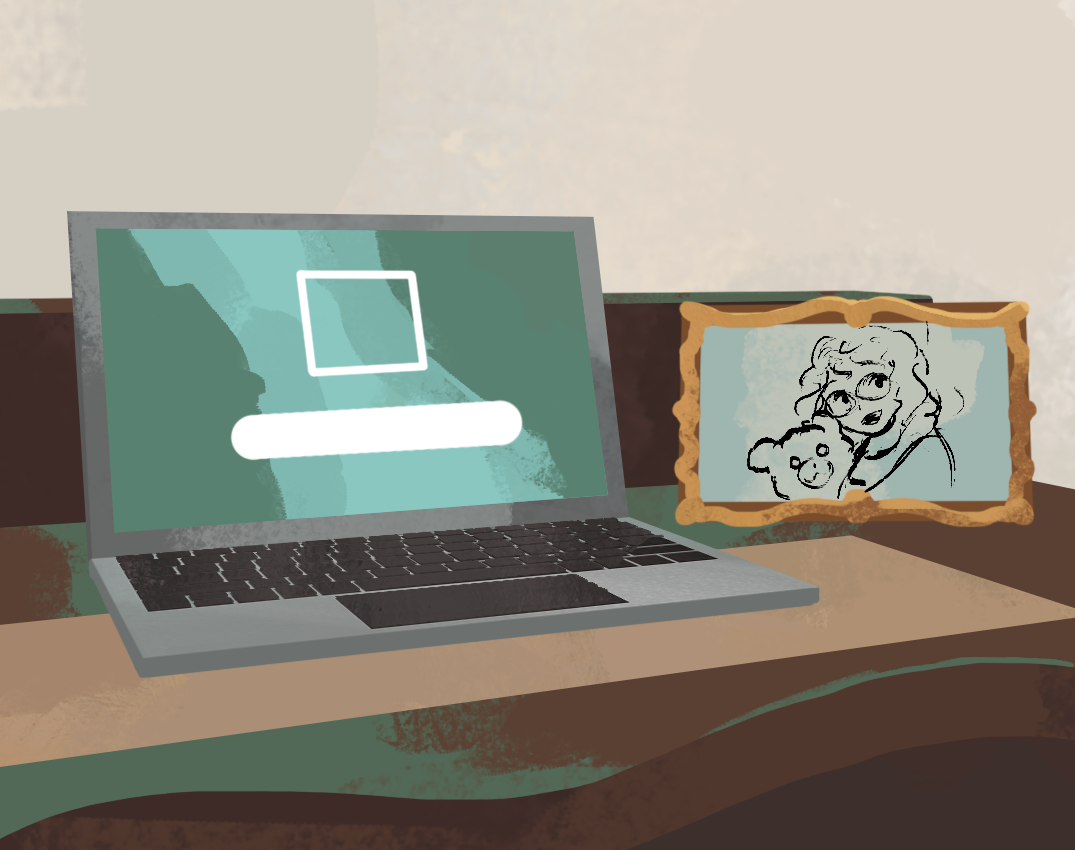
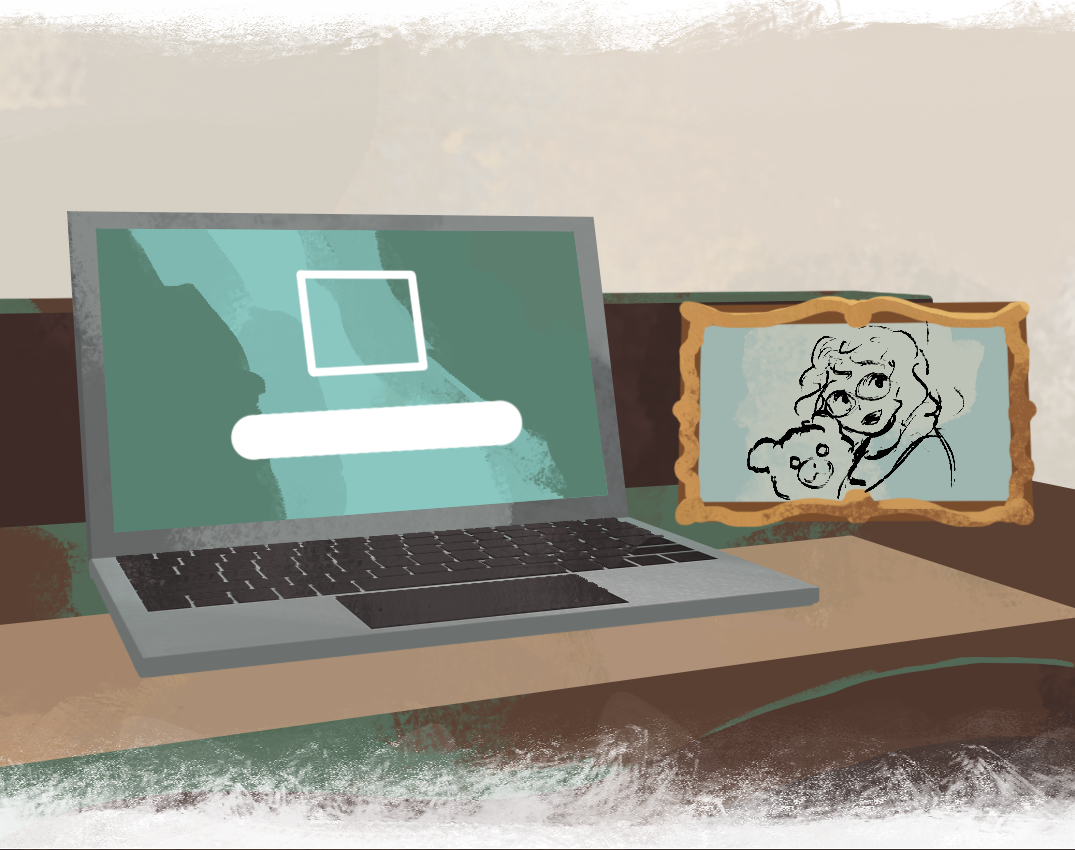
Guard Behaviors and Map Updates

Changed region(s): [[0.0, 0.8565, 1.0, 1.0], [0.0, 0.0, 1.0, 0.0612]]

diff --git a/js/p2.js b/js/p2.js
@@ -10,7 +10,7 @@
   var el = U.el, $ = U.$;
 
   var tab = 'plan';
-  var manualSeen = false;   /* has he opened MANUAL since the hatch locked? */
+  var hintedModule = null, puzzleSeen = false; /* reset the hint for each puzzle */
   var staffSeen = false;    /* has he opened STAFF during the posted guard's walk-over and talk? */
   var openSerial = -1, openBadge = null;
   var unlockSeen = null;   /* the unlock notice he has already waved off */
@@ -63,7 +63,7 @@
      arrives the first time it is needed. Note that nothing here ever SWITCHES
      the tab for him — finding the right page is still his job. */
   function availableTabs() {
-    var S = E.S, u = S.unlocked || {}, list = [['plan', 'PLAN']];
+    var S = E.S, u = S.unlocked || {}, list = [['plan', 'MAP']];
     if (C.PORTE && u.porte) list.push(['porte', 'DOOR']);
     if (C.COFFRE && u.manuel) list.push(['manuel', 'MANUAL']);
     if (u.personnel || u.visages) list.push(['personnel', 'STAFF']);
@@ -83,11 +83,15 @@
   function tabBar() {
     if (availableTabs().length === 1) return null;
     var bar = el('div', { class: 'tabs' });
-    /* THE HATCH POINTS AT THE MANUAL. When the lights go and the keypad comes
-       up, the procedures he needs are under the safes on MANUAL — so that tab
-       pulses until he opens it. */
-    var S = E.S, hatch = S.phase === 'module' && S.moduleId === 'clavier';
-    if (!hatch) manualSeen = false;
+    /* Point at each puzzle's reference page until Benjamin opens it.
+       The escape keypad keeps its existing hint toward Manual's procedures. */
+    var S = E.S, moduleId = S.phase === 'module' ? S.moduleId : null;
+    if (moduleId !== hintedModule) { hintedModule = moduleId; puzzleSeen = false; }
+    var puzzleTab = {
+      deguisement: 'personnel', grille: 'plan', porte: 'porte',
+      bureau: 'personnel', coffre: 'manuel', clavier: 'manuel',
+      ecoute: 'manuel', faux: 'manuel'
+    }[moduleId];
     /* THE FIRST CONVERSATION POINTS AT STAFF. From the moment the posted
        guard is called over until he has been talked round, STAFF glows until
        Benjamin opens it. Once, for the run. */
@@ -95,13 +99,13 @@
       return g.stand && !g.stoodDown && (g.summoned || (S.tchatche && S.tchatche.guardId === g.id));
     });
     availableTabs().forEach(function (t) {
-      var flash = (hatch && !manualSeen && t[0] === 'manuel') ||
+      var flash = (puzzleTab && !puzzleSeen && t[0] === puzzleTab) ||
                   (talk && !staffSeen && t[0] === 'personnel');
       bar.appendChild(buttonArt(el('button', {
         class: (tab === t[0] ? 'is-on' : '') + (flash ? ' is-flash' : ''),
         onclick: function () {
           tab = t[0];
-          if (t[0] === 'manuel' && hatch) manualSeen = true;
+          if (t[0] === puzzleTab) puzzleSeen = true;
           if (t[0] === 'personnel' && talk) staffSeen = true;
           U.sfx.tap(); U.emit('render');
         }
@@ -112,6 +116,9 @@
 
   /* ---------------------------------------------------- the floor plan */
   var TT = 20;
+  function lasersRevealed() {
+    return E.S.guards.some(function (g) { return g.id === 'g1' && g.stoodDown; });
+  }
   function objectiveTargets() {
     var S = E.S;
     var step = (C.MAP_OBJECTIVES || []).filter(function (item) {
@@ -152,7 +159,6 @@
     function open(x, y) {
       var ch = E.charAt(x, y);
       if (ch === '#') return false;
-      if (ch === 'L' && E.beamLive(x, y)) return false;
       var d = E.doorAt(x, y);
       return !(d && d.locked);
     }
@@ -185,18 +191,16 @@
     }
     s += floors + cones + edges;
 
-    /* THE LASERS. Solid to anything that walks, and the only reason the middle
-       of this floor is not a shortcut — so they have to be the most obvious
-       thing on the plan after the guards. Benjamin sees all of them: he has the
-       building's procedures, and knowing where they are is not the puzzle. */
+    /* Lasers cross walkable floor. Keep the floor connections visible beneath
+       the red warning tile and vertical beam; disabled beams stay dashed. */
     for (var ly = 0; ly < C.MAP.length; ly++) {
       for (var lx = 0; lx < C.MAP[ly].length; lx++) {
-        if (C.MAP[ly][lx] !== 'L') continue;
+        if (C.MAP[ly][lx] !== 'L' || !lasersRevealed()) continue;
         var px2 = lx * TT, py2 = ly * TT, off = !E.beamLive(lx, ly);
         if (!off) s += '<rect x="' + px2 + '" y="' + py2 + '" width="' + TT + '" height="' + TT +
              '" fill="var(--red)" opacity=".22"/>';
-        s += '<line x1="' + px2 + '" y1="' + (py2 + TT / 2) + '" x2="' + (px2 + TT) +
-             '" y2="' + (py2 + TT / 2) + '" stroke="var(--red)" stroke-width="2.5"' +
+        s += '<line x1="' + (px2 + TT / 2) + '" y1="' + py2 + '" x2="' + (px2 + TT / 2) +
+             '" y2="' + (py2 + TT) + '" stroke="var(--red)" stroke-width="2.5"' +
              (off ? ' stroke-dasharray="3 4" opacity=".4"' : '') + '/>';
       }
     }
@@ -432,9 +436,9 @@
     }
     rows.push(keyRow('<rect width="20" height="20" fill="var(--map-floor)"/><rect width="20" height="20" fill="var(--red)" opacity=".55"/>',
                      '<b>Sightline</b> A guard or camera can see this square now.'));
-    if (hasChar('L')) {
-      rows.push(keyRow('<rect x="0" y="7" width="20" height="6" fill="var(--red)" opacity=".9"/>',
-                       '<b>Lasers</b> Sealed. Go around — unless you drop them from the van.'));
+    if (hasChar('L') && lasersRevealed()) {
+      rows.push(keyRow('<rect width="20" height="20" fill="var(--red)" opacity=".22"/><path d="M10 0 V20" stroke="var(--red)" stroke-width="2.5"/>',
+                       '<b>Lasers</b> Crossable, but crossing an active beam triggers a response. Drop them from the van.'));
     }
     if (night) {
       rows.push(keyRow('<rect width="20" height="20" fill="var(--night-2)"/>',
@@ -1020,7 +1024,7 @@
      anybody reads here, so losing its place is the most expensive. */
   L.p2 = { render: function () { U.keepScroll('#p2-screen', render); },
            reset: function () {
-    tab = 'plan'; manualSeen = false; staffSeen = false; openSerial = -1; openBadge = null;
+    tab = 'plan'; hintedModule = null; puzzleSeen = false; staffSeen = false; openSerial = -1; openBadge = null;
     tapped = []; queryResult = null; unlockSeen = null; unlockShown = null;
   } };
 })(window.DC);

diff --git a/js/content.js b/js/content.js
@@ -251,14 +251,14 @@
          encounter: it does not count as being spotted. Talk him round and he
          walks back to this square and stands down for the night. Was a
          two-square beat at (15,14)-(14,14). */
-      { id: 'g1', badge: '4412', from: { x: 14, y: 14 }, to: { x: 14, y: 14 }, at: 0, dir: 1, depth: 1,
+      { id: 'g1', badge: '4412', from: { x: 15, y: 14 }, to: { x: 15, y: 14 }, at: 0, dir: 1, depth: 1,
         stand: true, facing: 'W', hears: 'STORAGE' },
       /* was: loop:true, waypoints [C6, C12, U12, U6] — the full perimeter */
       { id: 'g2', badge: '2071', from: { x: 19, y: 6 }, to: { x: 19, y: 10 }, at: 0, dir: 1, depth: 2 },
-      /* was: y:5, the door row */
-      /* investigate: a broken beam sends him straight to it, not after
-         Assane, and he stands there looking round for six moves */
-      { id: 'g3', badge: '5195', from: { x: 2, y: 3 }, to: { x: 2, y: 5 }, at: 6, dir: -1, depth: 1, investigate: 6 }
+      /* Idle at C5. A broken beam sends him straight to it, not after
+         Assane; he looks round for six moves, then returns to his post. */
+      { id: 'g3', badge: '5195', from: { x: 2, y: 4 }, to: { x: 2, y: 4 }, at: 0, dir: -1,
+        facing: 'N', depth: 1, investigate: 6 }
     ],
     /* CAM 1 over the safe never blinks. CAM 2 over the desk is on one beat in
        three — timeable, if Benjamin is counting, loopable if he is not. */

diff --git a/styles/tv.css b/styles/tv.css
@@ -404,7 +404,7 @@
   background:url('../art/ui-new/tv-top-header.png') left top / 100% 100% no-repeat;
   border:0;border-radius:0;color:#080808;font-size:17px;font-weight:700;letter-spacing:0;
 }
-.tvbar__venue{position:absolute;left:27.5%;right:12%;top:0;height:30.45px;
+.tvbar__venue{position:absolute;left:27.5%;right:12%;top:-10%;height:30.45px;
   display:flex;align-items:center;color:#080808;font-size:12px;white-space:nowrap;overflow:hidden;}
 .tvbar__clock{
   position:absolute;right:0;top:0;width:11.875%;height:35.59px;
@@ -412,11 +412,11 @@
   background:url('../art/ui-new/tv-top-timer.png') center / 100% 100% no-repeat;
   color:#080808;font-family:var(--font);font-size:18px;font-weight:700;letter-spacing:0;
 }
-.tvbar__obj{position:absolute;left:3%;bottom:0;width:49%;height:30.45px;
+.tvbar__obj{position:absolute;left:3%;bottom:-10%;width:49%;height:30.45px;
   display:flex;align-items:center;font-size:12px;letter-spacing:0;color:#080808;}
 .suspicion{position:absolute;inset:0;display:block;}
 .suspicion b,.suspicion b.is-alert{
-  position:absolute;left:54.7%;bottom:0;width:12%;height:30.45px;
+  position:absolute;left:54.7%;bottom:-10%;width:12%;height:30.45px;
   display:flex;align-items:center;justify-content:center;
   color:#080808;font-size:16px;font-weight:700;letter-spacing:0;line-height:1;
 }

diff --git a/styles/phone.css b/styles/phone.css
@@ -911,11 +911,17 @@ body.is-guest .phone-heading{width:min(100%,430px);align-self:center;}
 .pscreen--dossier .layers button:active,
 .pscreen--dossier .tabs button.is-on,
 .pscreen--dossier .tabs button:active{color:#FD6A1A;}
-/* MANUAL pulses while the hatch is locked and he has not opened it yet */
-@keyframes tabflash{0%,100%{filter:none;}50%{filter:drop-shadow(0 0 6px rgba(253,106,26,.6)) brightness(1.15);}}
-.pscreen--dossier .tabs button.is-flash{color:#FD6A1A;animation:tabflash 1.6s ease-in-out infinite;}
+/* Outline the tab needed for the current encounter until it is opened. */
+@keyframes tabflash{
+  0%,100%{outline-color:#FD6A1A;outline-offset:1px;}
+  50%{outline-color:#f7b95c;outline-offset:4px;}
+}
+.pscreen--dossier .tabs button.is-flash{
+  color:#FD6A1A;outline:3px solid #FD6A1A;outline-offset:1px;
+  animation:tabflash 1.2s ease-in-out infinite;
+}
 @media (prefers-reduced-motion:reduce){
-  .pscreen--dossier .tabs button.is-flash{animation:none;filter:drop-shadow(0 0 5px rgba(253,106,26,.6));}
+  .pscreen--dossier .tabs button.is-flash{animation:none;outline-color:#f7b95c;outline-offset:3px;}
 }
 .pscreen--dossier .dossier__art{
   position:absolute;inset:0;width:100%;height:100%;z-index:-1;

diff --git a/js/engine.js b/js/engine.js
@@ -263,7 +263,7 @@
       toast: null,
       objective: 'Study the plan. Both players ready up.'
     };
-    S.guards.forEach(function (g) { if (!g.stand) g.facing = faceOf(g); });
+    S.guards.forEach(function (g) { if (!g.stand && !g.homeFacing) g.facing = faceOf(g); });
     markSeen();
     return S;
   }
@@ -738,8 +738,11 @@
         if (!back) { g.away = null; return; }
         g.facing = dirToward(g.away, back);
         g.away = (back.x === post.x && back.y === post.y) ? null : back;
+        if (!g.away && g.homeFacing) g.facing = g.homeFacing;
         return;
       }
+      // A single-tile beat is an idle post, but still answers laser probes.
+      if (g.path.length === 1) return;
       if (g.loop) {
         g.at = (g.at + 1) % g.path.length;   /* a circuit never turns back */
       } else {
